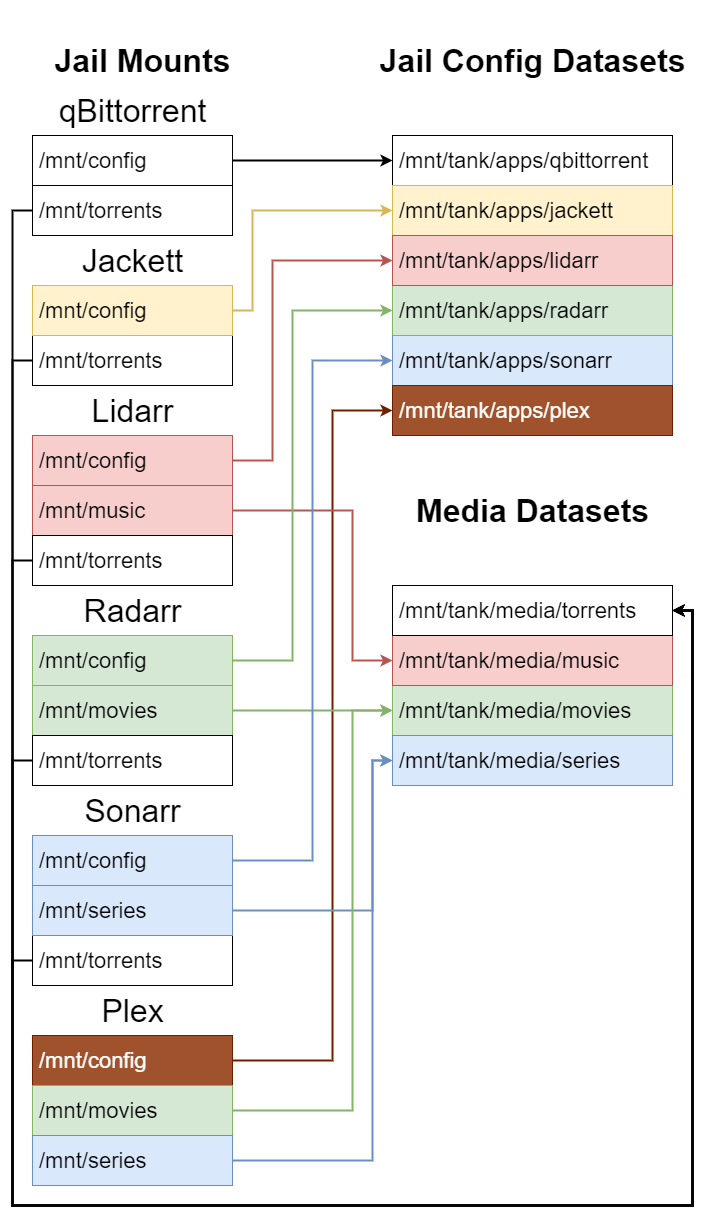
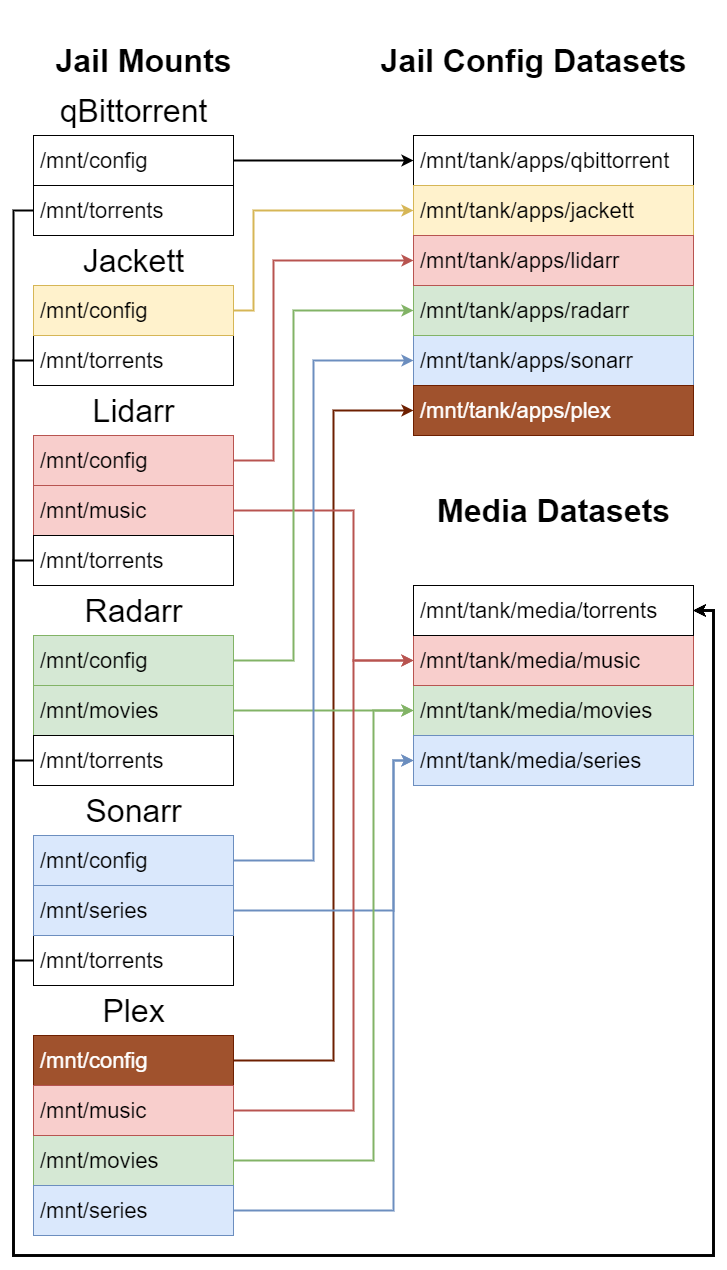
Servarr on TrueNAS: add Plex section

Changed region(s): [[0.0, 0.0311, 0.9958, 0.9967], [0.529, 0.0311, 0.9646, 0.0623]]

diff --git a/content/posts/install-qbittorrent-jackett-lidarr-radarr-sonarr-and-plex-inside-truenas-jails/index.md b/content/posts/install-qbittorrent-jackett-lidarr-radarr-sonarr-and-plex-inside-truenas-jails/index.md
@@ -355,3 +355,34 @@ iocage exec sonarr service sonarr start
 ```
 
 Navigate to `http://<jail IP>:8989` in your browser to use Sonarr.
+
+### Plex Jail
+
+```bash
+# Create jail
+iocage create --name plex --release 12.2-RELEASE dhcp=1 boot=1
+# Mount jail config dataset
+iocage exec plex mkdir /mnt/config
+iocage fstab --add plex /mnt/vault0/apps/plex /mnt/config nullfs rw 0 0
+# Mount media datasets
+iocage exec plex mkdir /mnt/series
+iocage fstab --add plex /mnt/vault0/media/series /mnt/series nullfs rw 0 0
+iocage exec plex mkdir /mnt/movies
+iocage fstab --add plex /mnt/vault0/media/movies /mnt/movies nullfs rw 0 0
+# Update packages
+iocage exec plex "pkg update && pkg upgrade"
+# Install
+iocage exec plex pkg install plexmediaserver
+# Enable service
+iocage exec plex sysrc plexmediaserver_enable=YES
+# Configure config directory
+iocage exec plex sysrc plexmediaserver_support_path=/mnt/config
+# Add `media` group
+iocage exec plex pw groupadd -n media -g 8675309
+# Add user to `media` group
+iocage exec plex pw groupmod media -m plex
+# Start the service
+iocage exec plex service plexmediaserver start
+```
+
+Navigate to `http://<jail IP>:32400/web` in your browser to use Plex.
